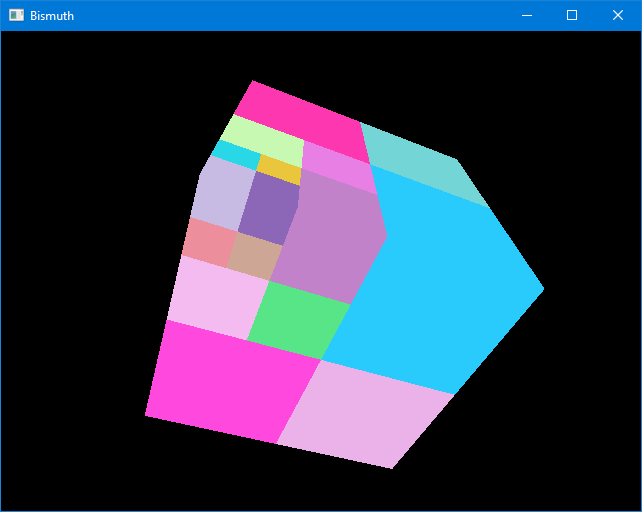
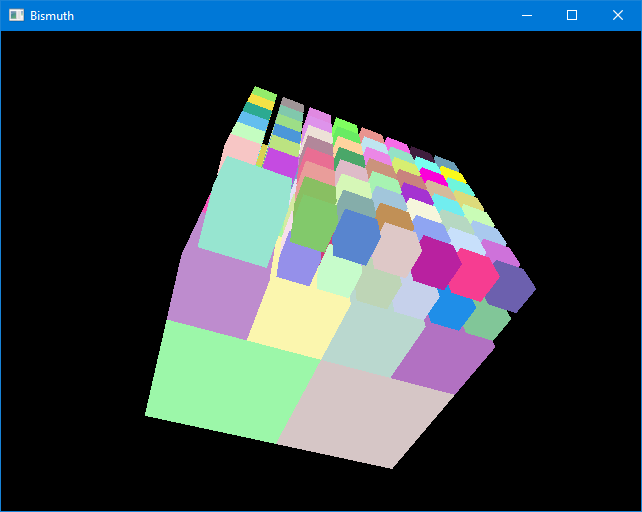
More interesting subdivision and edge offset.

diff --git a/src/main.rs b/src/main.rs
@@ -19,6 +19,19 @@ fn new_root() -> cube::Root {
         .to_cursor();
     let mut root = cube::Root::new(width);
     root.to_cube_mut().subdivide_to_cursor(&cursor);
+    let _ = root.to_cube_mut().at_point_mut(&UPoint3::new(0, 0, 0), width - 2).join();
+    for mut cube in root.to_cube_mut().iter_cursor_mut(&cursor) {
+        for mut cube in cube.iter_mut() {
+            if let cube::OrphanNode::Leaf(ref mut leaf) = *cube {
+                for axis in cube::Axis::range() {
+                    for edge in leaf.geometry.edges_mut(axis.into()) {
+                        edge.set_front(2);
+                        edge.set_back(14);
+                    }
+                }
+            }
+        }
+    }
     root
 }
 
